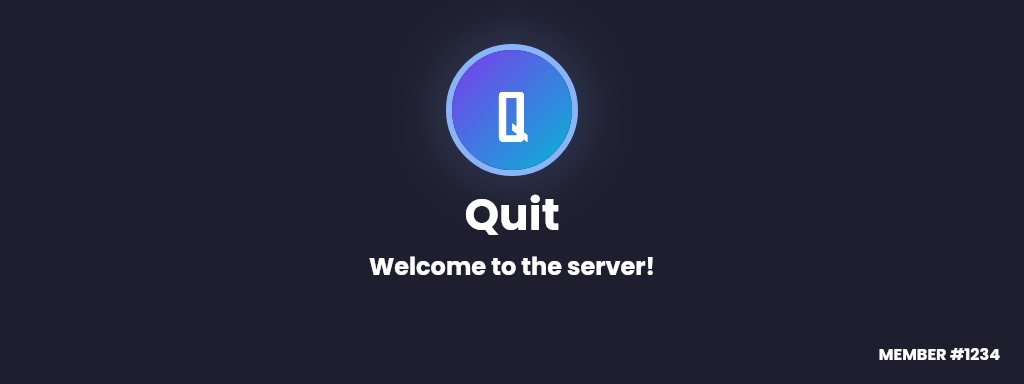
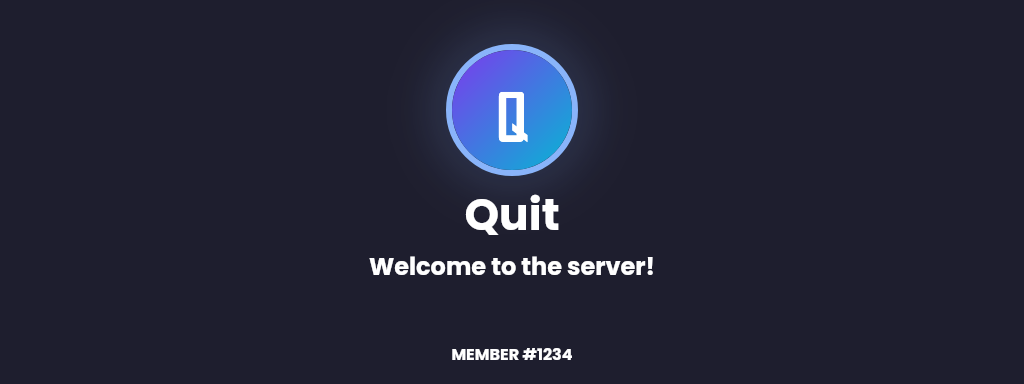
fix: default member count to bottom-center in centered presets
The centered layout placed the member count in the bottom-right corner
by default, which looked off against the otherwise centered content.
Centered presets now default to bottom-center; hero keeps the corner.
An explicit setMemberCountPosition() still overrides both.

Changed region(s): [[0.8438, 0.9062, 1.0, 0.9375], [0.4375, 0.9062, 0.5625, 0.9375]]

diff --git a/tests/layout.test.ts b/tests/layout.test.ts
@@ -36,8 +36,20 @@ describe('member count position', () => {
     expect(l.memberCount).toBeUndefined();
   });
 
-  it('defaults to the bottom-right corner', () => {
+  it('defaults to bottom-center in the centered preset', () => {
     const l = make();
+    expect(l.memberCount?.align).toBe('center');
+    expect(l.memberCount?.x).toBe(l.width / 2);
+    expect(l.memberCount?.y).toBe(l.height - 24);
+  });
+
+  it('defaults to the bottom-right corner in the hero preset', () => {
+    const l = layout({
+      ...DEFAULT_OPTIONS,
+      preset: 'hero',
+      username: 'Quit',
+      memberCount: 1234,
+    });
     expect(l.memberCount?.align).toBe('right');
     expect(l.memberCount?.x).toBe(l.width - 24);
     expect(l.memberCount?.y).toBe(l.height - 24);

diff --git a/src/presets/hero.ts b/src/presets/hero.ts
@@ -1,4 +1,4 @@
-import { centeredLayout } from './centered.js';
+import { centeredLayout, resolvePosition } from './centered.js';
 import type { CardOptions } from '../types.js';
 import type { LayoutResult } from './centered.js';
 
@@ -15,6 +15,12 @@ export function heroLayout(opts: CardOptions): LayoutResult {
     subtitle: base.subtitle
       ? { ...base.subtitle, x: textX, y: base.height / 2 + 30, align: 'left' }
       : undefined,
-    memberCount: base.memberCount,
+    memberCount: base.memberCount
+      ? // hero is asymmetric — default the count to the corner, not bottom-center
+        {
+          ...base.memberCount,
+          ...resolvePosition(opts.memberCountPosition ?? 'bottom-right', base.width, base.height),
+        }
+      : undefined,
   };
 }

diff --git a/src/presets/centered.ts b/src/presets/centered.ts
@@ -95,7 +95,8 @@ export function centeredLayout(opts: CardOptions): LayoutResult {
       opts.memberCount !== undefined
         ? {
             text: `MEMBER #${opts.memberCount}`,
-            ...resolvePosition(opts.memberCountPosition, width, height),
+            // centered preset: everything centered by default, count included
+            ...resolvePosition(opts.memberCountPosition ?? 'bottom-center', width, height),
             size: 16,
             color: textColor,
             family,

diff --git a/README.md b/README.md
@@ -80,7 +80,7 @@ client.on('guildMemberAdd', async (member) => {
 | `setAvatar(urlOrBuffer)` | Avatar image; falls back to a colored circle if it fails to load |
 | `setSubtitle(text)` | Secondary line, e.g. "Welcome to the server!" |
 | `setMemberCount(n)` | Renders "MEMBER #n" — optional, omit to hide |
-| `setMemberCountPosition(pos)` | 3×3 grid: `'top-left'`, `'top-center'`, `'top-right'`, `'center-left'`, `'center'`, `'center-right'`, `'bottom-left'`, `'bottom-center'`, `'bottom-right'` (default). `'corner'` is an alias for `'bottom-right'`. |
+| `setMemberCountPosition(pos)` | 3×3 grid: `'top-left'`, `'top-center'`, `'top-right'`, `'center-left'`, `'center'`, `'center-right'`, `'bottom-left'`, `'bottom-center'`, `'bottom-right'`. `'corner'` is an alias for `'bottom-right'`. Defaults: `'bottom-center'` in the centered presets, `'bottom-right'` in `hero`. |
 | `setBackground(value)` | Hex color (`#1e1e2e`) or image URL |
 | `setTheme(theme)` | `'dark'` (default) or `'light'` |
 | `setFont({ family, color, size })` | Override the bundled font settings |